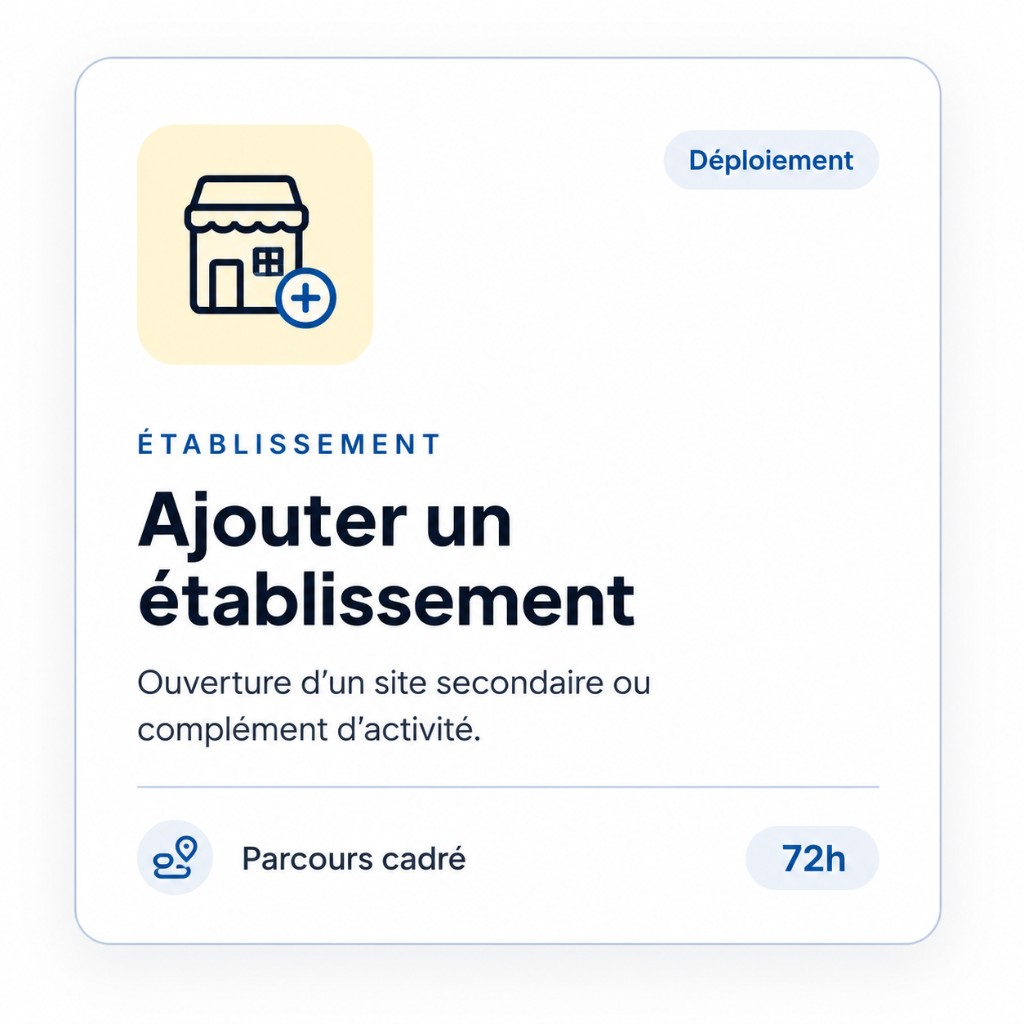
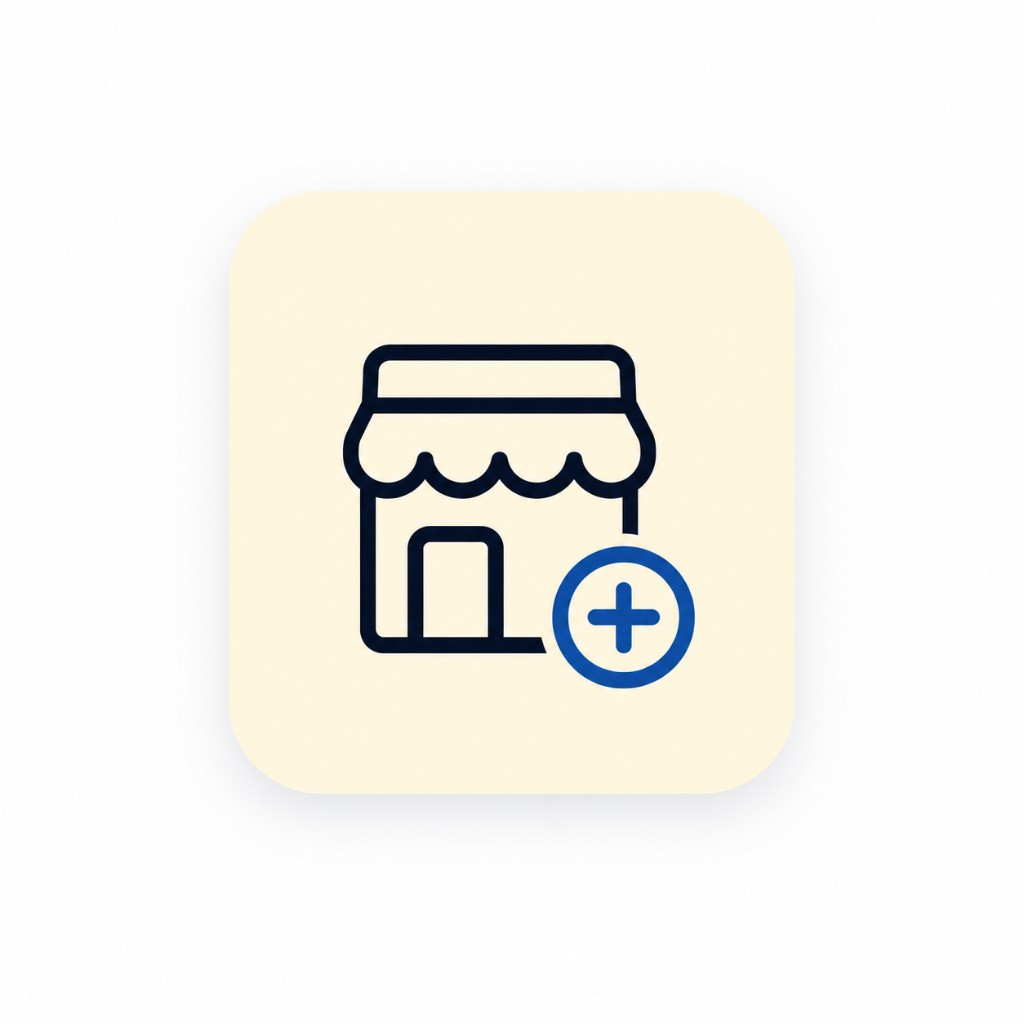
Raffiner les icônes et cartes du choix de formalités.
Remplace les visuels par des tuiles plus nettes et améliore la présentation des cartes sans double fond coloré.

diff --git a/src/components/questionnaire/FormalityChoiceCard.jsx b/src/components/questionnaire/FormalityChoiceCard.jsx
@@ -8,6 +8,9 @@ const footerIcons = {
   'Parcours cadré': Route,
   'Suivi dossier': Landmark,
   'Pièces guidées': BookOpen,
+  'Accompagnement dédié': BookOpen,
+  'Reprise dossier': BookOpen,
+  'Commande express': BookOpen,
 };
 
 export const FormalityChoiceCard = ({ item, selected, onClick }) => {
@@ -18,48 +21,53 @@ export const FormalityChoiceCard = ({ item, selected, onClick }) => {
     <button
       type="button"
       onClick={onClick}
-      className={`group flex h-full w-full flex-col rounded-2xl border bg-white p-4 text-left shadow-sm transition hover:-translate-y-0.5 hover:shadow-md ${
+      className={`group flex h-full w-full flex-col rounded-2xl border bg-white p-5 text-left transition duration-200 ${
         selected
-          ? 'border-primary ring-2 ring-primary/20'
-          : 'border-border hover:border-primary/30'
+          ? 'border-primary/40 shadow-[0_8px_28px_rgba(15,39,80,0.12)] ring-2 ring-primary/15'
+          : 'border-border/80 shadow-[0_2px_14px_rgba(15,39,80,0.06)] hover:-translate-y-0.5 hover:border-primary/25 hover:shadow-[0_10px_28px_rgba(15,39,80,0.1)]'
       }`}
     >
       <div className="flex items-start justify-between gap-3">
-        <div className={`flex h-14 w-14 shrink-0 items-center justify-center rounded-2xl p-2 ${visual.iconBg}`}>
+        <div className="relative h-[4.75rem] w-[4.75rem] shrink-0 overflow-hidden rounded-2xl shadow-[0_2px_10px_rgba(15,39,80,0.08)] ring-1 ring-primary/10">
           <img
             src={visual.icon}
             alt=""
+            width={76}
+            height={76}
             className="h-full w-full object-contain"
             loading="lazy"
+            decoding="async"
           />
         </div>
-        <span className="rounded-full bg-secondary px-2.5 py-1 text-[11px] font-semibold text-primary">
+        <span className="rounded-full bg-[hsl(var(--secondary))] px-2.5 py-1 text-[11px] font-semibold tracking-wide text-primary">
           {visual.badge}
         </span>
       </div>
 
       <div className="mt-4 flex-1 space-y-1.5">
-        <p className="text-[11px] font-bold uppercase tracking-[0.12em] text-primary/80">
+        <p className="text-[10px] font-bold uppercase tracking-[0.14em] text-primary/70">
           {visual.groupLabel}
         </p>
-        <h3 className="text-base font-extrabold leading-snug text-foreground">{item.label}</h3>
+        <h3 className="text-[1.05rem] font-extrabold leading-snug tracking-tight text-[hsl(var(--greffio-blue-900))]">
+          {item.label}
+        </h3>
         <p className="text-sm leading-relaxed text-muted-foreground">{visual.description}</p>
       </div>
 
-      <div className="mt-4 flex items-center justify-between border-t border-border/70 pt-3">
-        <span className="inline-flex items-center gap-2 text-xs font-semibold text-primary">
-          <span className="flex h-7 w-7 items-center justify-center rounded-full bg-secondary">
+      <div className="mt-4 flex items-center justify-between border-t border-border/60 pt-3.5">
+        <span className="inline-flex items-center gap-2 text-xs font-semibold text-primary/90">
+          <span className="flex h-7 w-7 items-center justify-center rounded-full bg-secondary/80">
             <FooterIcon className="h-3.5 w-3.5" />
           </span>
           {visual.footerLabel}
         </span>
-        <span className="rounded-full bg-secondary px-2.5 py-1 text-xs font-bold text-primary">
+        <span className="rounded-full bg-secondary/90 px-2.5 py-1 text-[11px] font-bold text-primary">
           {visual.eta}
         </span>
       </div>
 
       {selected ? (
-        <span className="mt-3 inline-flex items-center gap-1.5 text-xs font-semibold text-primary">
+        <span className="mt-3 inline-flex items-center gap-1.5 rounded-full bg-secondary/70 px-2.5 py-1 text-xs font-semibold text-primary">
           <Check className="h-3.5 w-3.5" strokeWidth={3} />
           Sélectionnée
         </span>

diff --git a/src/config/demarcheVisuals.js b/src/config/demarcheVisuals.js
@@ -10,7 +10,6 @@ const ICONS = {
 const defaultsByCategory = {
   creation: {
     icon: ICONS.creation,
-    iconBg: 'bg-sky-100',
     badge: 'Essentiel',
     groupLabel: 'CRÉATION',
     footerLabel: 'Dossier guidé',
@@ -18,7 +17,6 @@ const defaultsByCategory = {
   },
   etablissements: {
     icon: ICONS.etablissementAdd,
-    iconBg: 'bg-amber-100',
     badge: 'Déploiement',
     groupLabel: 'ÉTABLISSEMENT',
     footerLabel: 'Parcours cadré',
@@ -26,7 +24,6 @@ const defaultsByCategory = {
   },
   modifications: {
     icon: ICONS.modification,
-    iconBg: 'bg-emerald-100',
     badge: 'Courant',
     groupLabel: 'VIE SOCIALE',
     footerLabel: 'Suivi greffe',
@@ -34,7 +31,6 @@ const defaultsByCategory = {
   },
   gestion: {
     icon: ICONS.modification,
-    iconBg: 'bg-violet-100',
     badge: 'Vie sociale',
     groupLabel: 'GESTION',
     footerLabel: 'Suivi dossier',
@@ -42,7 +38,6 @@ const defaultsByCategory = {
   },
   autres: {
     icon: ICONS.creation,
-    iconBg: 'bg-slate-100',
     badge: 'Spécifique',
     groupLabel: 'AUTRES',
     footerLabel: 'Accompagnement',
@@ -59,7 +54,6 @@ export const DEMARCHE_VISUALS = {
     eta: '48h',
     badge: 'Essentiel',
     icon: ICONS.creation,
-    iconBg: 'bg-sky-100',
   },
   creation_sasu: {
     groupLabel: 'CRÉATION',
@@ -121,7 +115,6 @@ export const DEMARCHE_VISUALS = {
     groupLabel: 'CESSATION',
     description: 'Radiation ou fermeture d’un établissement secondaire.',
     icon: ICONS.etablissementClose,
-    iconBg: 'bg-orange-100',
     badge: 'Clôture',
     footerLabel: 'Suivi dossier',
     eta: '5j',
@@ -137,7 +130,6 @@ export const DEMARCHE_VISUALS = {
     groupLabel: 'SIÈGE SOCIAL',
     description: 'Déplacement de l’adresse officielle de l’entreprise.',
     icon: ICONS.siegeTransfer,
-    iconBg: 'bg-sky-100',
     badge: 'Adresse',
     footerLabel: 'Pièces guidées',
     eta: '72h',
@@ -146,7 +138,6 @@ export const DEMARCHE_VISUALS = {
     groupLabel: 'GOUVERNANCE',
     description: 'Nomination, remplacement ou cessation d’un mandataire.',
     icon: ICONS.dirigeant,
-    iconBg: 'bg-emerald-100',
     badge: 'Gouvernance',
     footerLabel: 'Dossier guidé',
     eta: '96h',
@@ -213,7 +204,6 @@ export const DEMARCHE_VISUALS = {
     groupLabel: 'CESSATION',
     description: 'Clôture définitive de la société avec dissolution et radiation.',
     icon: ICONS.etablissementClose,
-    iconBg: 'bg-orange-100',
     badge: 'Clôture',
     footerLabel: 'Suivi dossier',
     eta: '15j',

diff --git a/src/components/questionnaire/DemarchePicker.jsx b/src/components/questionnaire/DemarchePicker.jsx
@@ -93,7 +93,7 @@ export const DemarchePicker = ({ value, onChange }) => {
                 <p className="text-xs text-muted-foreground">{category.description}</p>
               </div>
             ) : null}
-            <ul className="grid gap-3 sm:grid-cols-2">
+            <ul className="grid gap-4 sm:grid-cols-2">
               {items.map((item) => (
                 <li key={item.key}>
                   <FormalityChoiceCard
